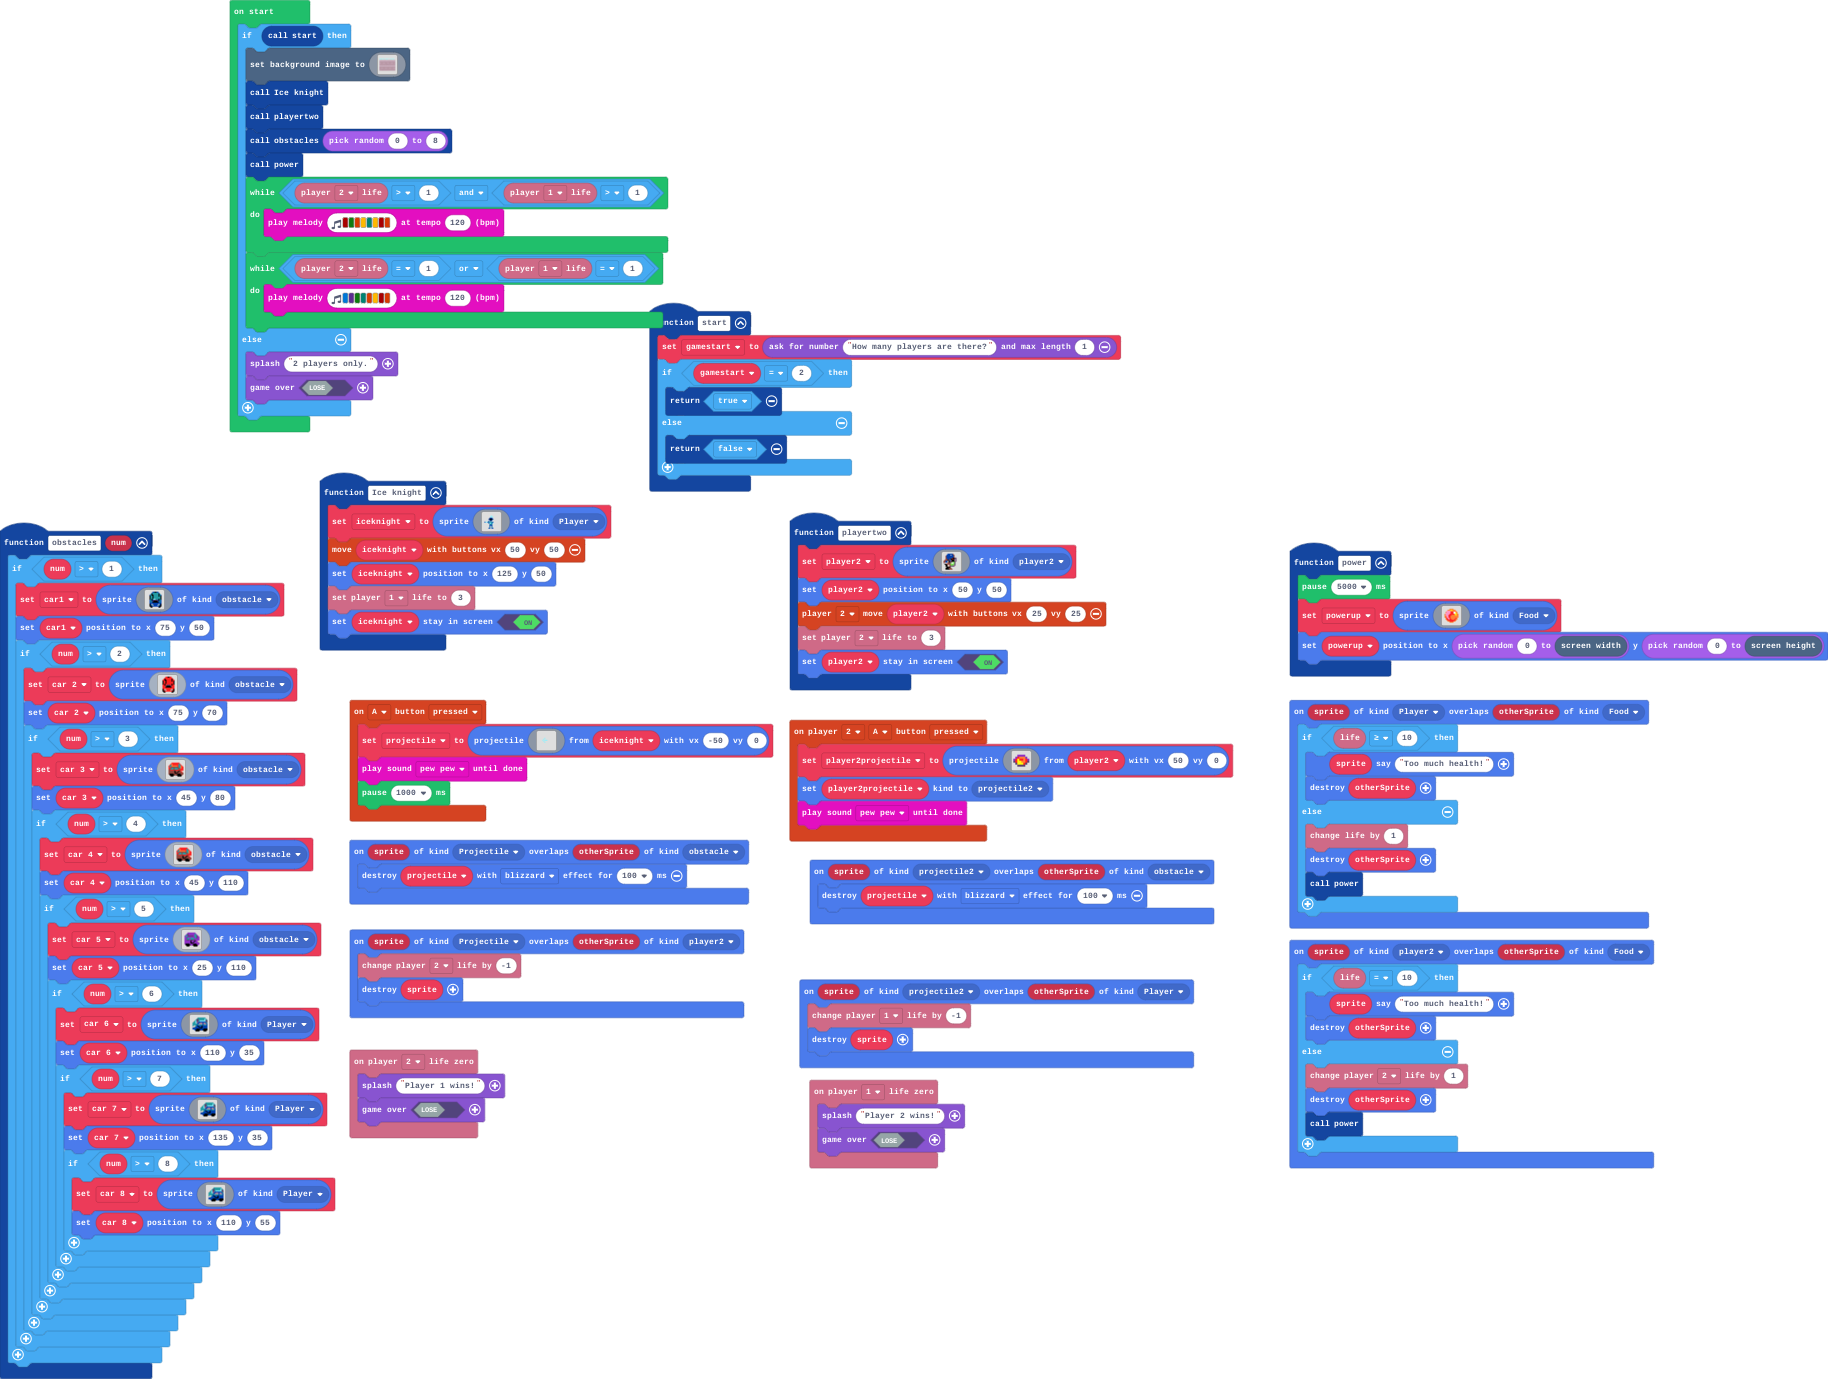
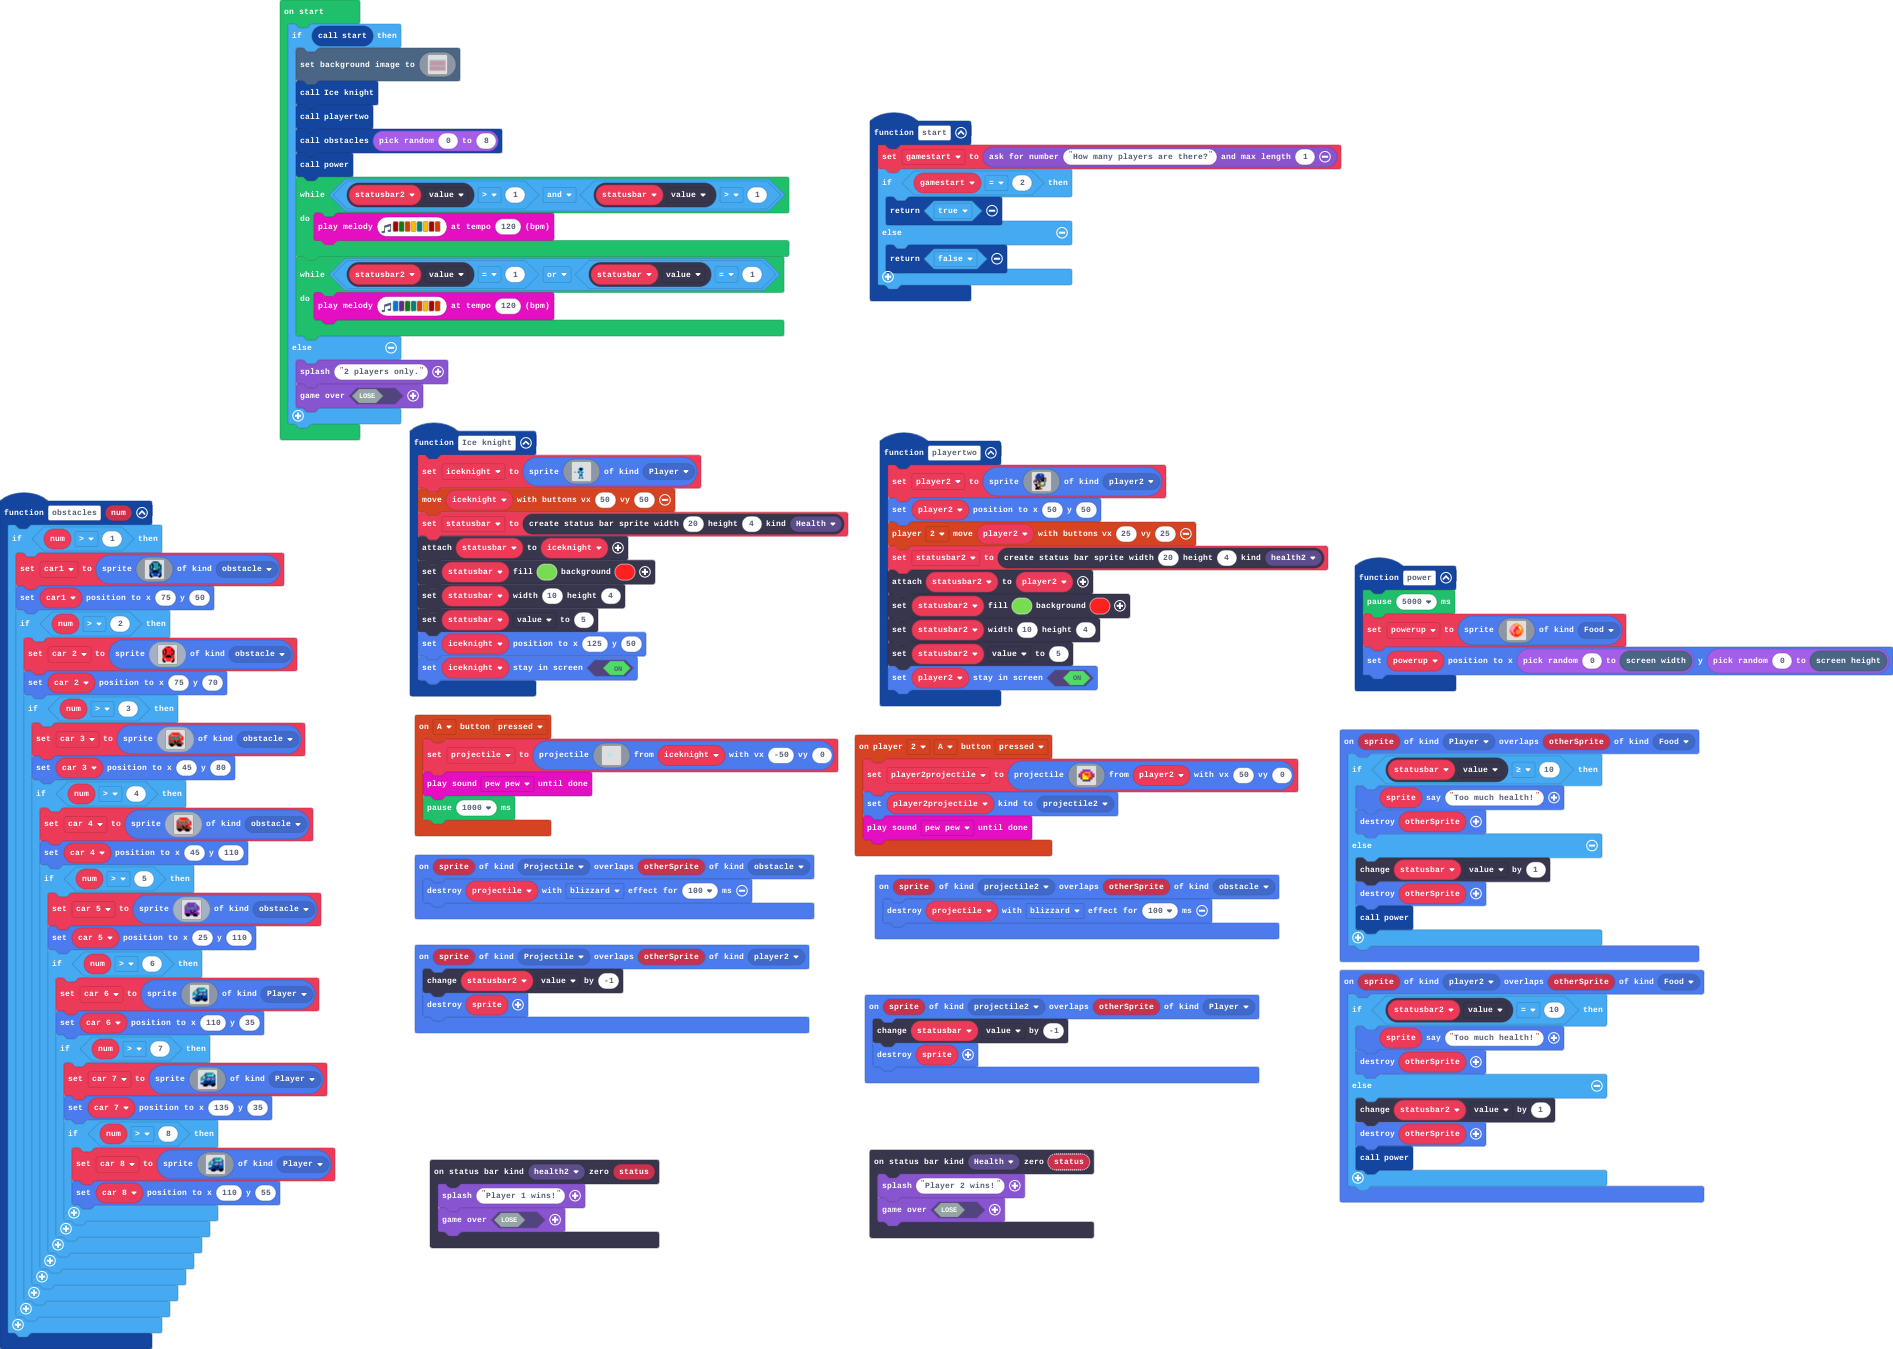
Update pxt.json, main.blocks, main.ts

diff --git a/main.ts b/main.ts
@@ -3,6 +3,9 @@ namespace SpriteKind {
     export const player2 = SpriteKind.create()
     export const projectile2 = SpriteKind.create()
 }
+namespace StatusBarKind {
+    export const health2 = StatusBarKind.create()
+}
 function power2 () {
     pause(5000)
     powerup = sprites.create(img`
@@ -25,6 +28,10 @@ function power2 () {
         `, SpriteKind.Food)
     powerup.setPosition(randint(0, scene.screenWidth()), randint(0, scene.screenHeight()))
 }
+statusbars.onZero(StatusBarKind.health2, function (status) {
+    game.splash("Player 1 wins!")
+    game.over(false)
+})
 function playertwo () {
     player2 = sprites.create(img`
         . . . . 8 8 8 8 8 e . . . . . . 
@@ -46,7 +53,11 @@ function playertwo () {
         `, SpriteKind.player2)
     player2.setPosition(50, 50)
     controller.player2.moveSprite(player2, 25, 25)
-    info.player2.setLife(3)
+    statusbar2 = statusbars.create(20, 4, StatusBarKind.health2)
+    statusbar2.attachToSprite(player2)
+    statusbar2.setColor(7, 2)
+    statusbar2.setBarSize(10, 4)
+    statusbar2.value = 5
     player2.setStayInScreen(true)
 }
 sprites.onOverlap(SpriteKind.projectile2, SpriteKind.obstacle, function (sprite, otherSprite) {
@@ -87,11 +98,11 @@ controller.player2.onButtonEvent(ControllerButton.A, ControllerButtonEvent.Press
     music.pewPew.playUntilDone()
 })
 sprites.onOverlap(SpriteKind.player2, SpriteKind.Food, function (sprite, otherSprite) {
-    if (info.life() == 10) {
+    if (statusbar2.value == 10) {
         sprite.sayText("Too much health!")
         otherSprite.destroy()
     } else {
-        info.player2.changeLifeBy(1)
+        statusbar2.value += 1
         otherSprite.destroy()
         power2()
     }
@@ -119,31 +130,31 @@ function Ice_knight () {
         . . . . . . . . . . . . . . . . 
         `, SpriteKind.Player)
     controller.moveSprite(iceknight, 50, 50)
+    statusbar = statusbars.create(20, 4, StatusBarKind.Health)
+    statusbar.attachToSprite(iceknight)
+    statusbar.setColor(7, 2)
+    statusbar.setBarSize(10, 4)
+    statusbar.value = 5
     iceknight.setPosition(125, 50)
-    info.player1.setLife(3)
     iceknight.setStayInScreen(true)
 }
-sprites.onOverlap(SpriteKind.projectile2, SpriteKind.Player, function (sprite, otherSprite) {
-    info.player1.changeLifeBy(-1)
-    sprite.destroy()
-})
-sprites.onOverlap(SpriteKind.Player, SpriteKind.Food, function (sprite, otherSprite) {
-    if (info.life() >= 10) {
-        sprite.sayText("Too much health!")
-        otherSprite.destroy()
-    } else {
-        info.changeLifeBy(1)
-        otherSprite.destroy()
-        power2()
-    }
-})
-info.player1.onLifeZero(function () {
+statusbars.onZero(StatusBarKind.Health, function (status) {
     game.splash("Player 2 wins!")
     game.over(false)
 })
-info.player2.onLifeZero(function () {
-    game.splash("Player 1 wins!")
-    game.over(false)
+sprites.onOverlap(SpriteKind.projectile2, SpriteKind.Player, function (sprite, otherSprite) {
+    statusbar.value += -1
+    sprite.destroy()
+})
+sprites.onOverlap(SpriteKind.Player, SpriteKind.Food, function (sprite, otherSprite) {
+    if (statusbar.value >= 10) {
+        sprite.sayText("Too much health!")
+        otherSprite.destroy()
+    } else {
+        statusbar.value += 1
+        otherSprite.destroy()
+        power2()
+    }
 })
 function obstacles (num: number) {
     if (num > 1) {
@@ -324,7 +335,7 @@ function start () {
     }
 }
 sprites.onOverlap(SpriteKind.Projectile, SpriteKind.player2, function (sprite, otherSprite) {
-    info.player2.changeLifeBy(-1)
+    statusbar2.value += -1
     sprite.destroy()
 })
 let gamestart = 0
@@ -341,6 +352,8 @@ let iceknight: Sprite = null
 let projectile: Sprite = null
 let player2: Sprite = null
 let powerup: Sprite = null
+let statusbar: StatusBarSprite = null
+let statusbar2: StatusBarSprite = null
 if (start()) {
     scene.setBackgroundImage(img`
         9999999999999999999999999999999999999999999999999999999999999999999999999999999999999999999999999999999999999999999999999999999999999999999999999999999999999999
@@ -468,10 +481,10 @@ if (start()) {
     playertwo()
     obstacles(randint(0, 8))
     power2()
-    while (info.player2.life() > 1 && info.player1.life() > 1) {
+    while (statusbar2.value > 1 && statusbar.value > 1) {
         music.playMelody("C5 G B A F A C5 B ", 120)
     }
-    while (info.player2.life() == 1 || info.player1.life() == 1) {
+    while (statusbar2.value == 1 || statusbar.value == 1) {
         music.playMelody("E D G F B A C5 B ", 120)
     }
 } else {
